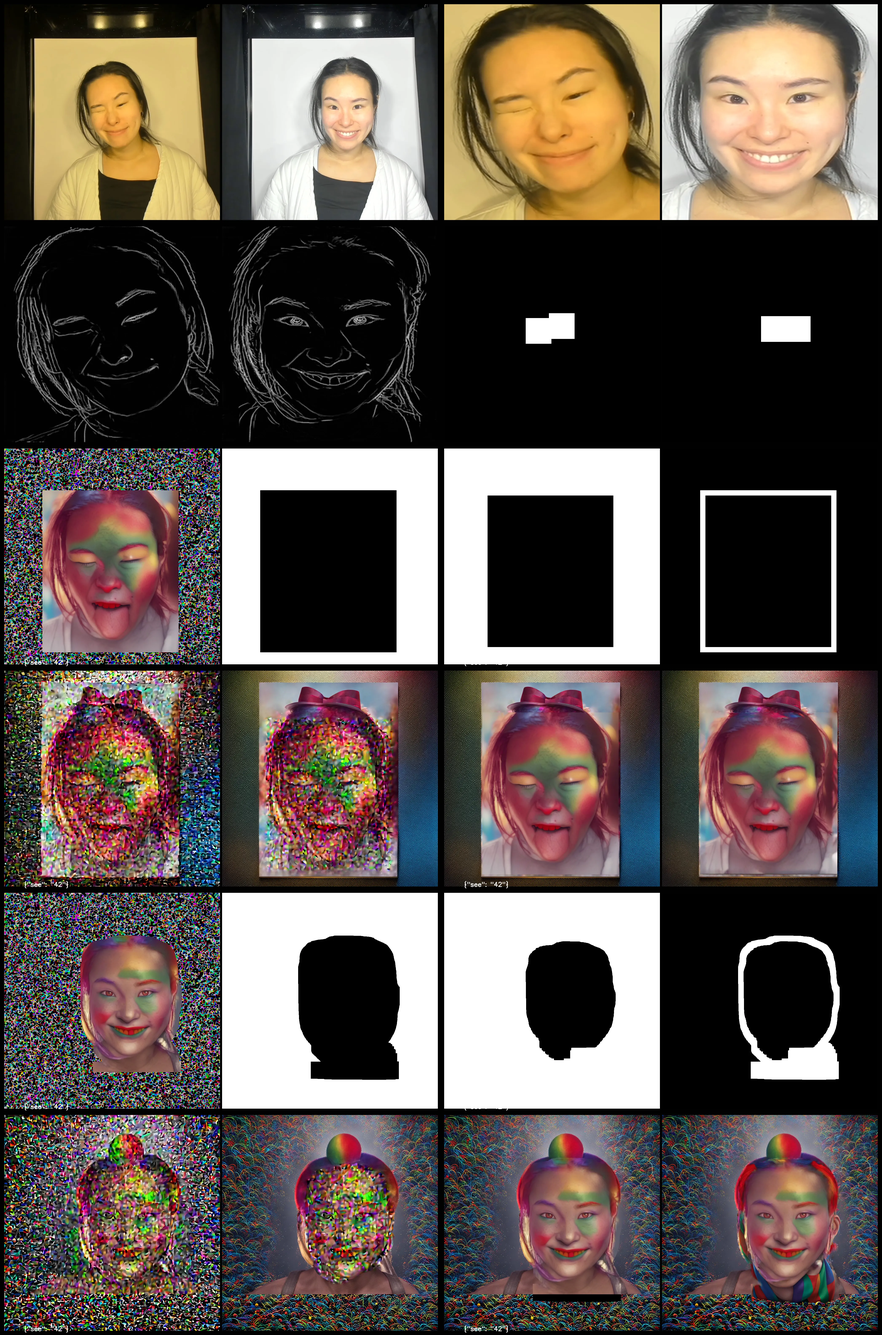
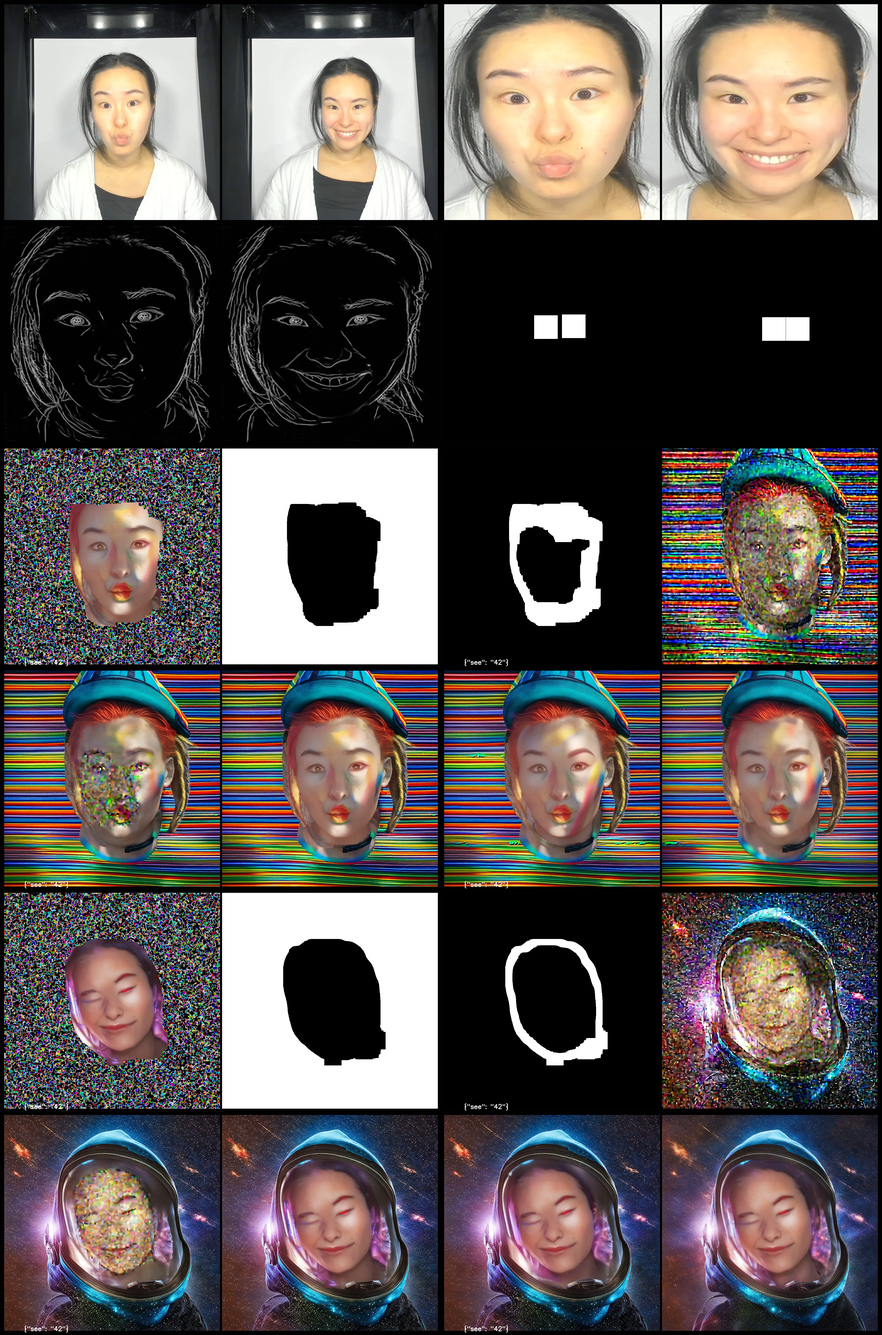
all the inpaintings.

diff --git a/one_shot/dreambooth/model.py b/one_shot/dreambooth/model.py
@@ -328,12 +328,11 @@ class Model:
                 image=img,
                 mask_image=mask,
                 generator=generator,
-                strength=0.99,
                 guidance_scale=self.params.guidance_scale,
                 num_inference_steps=self.params.steps,
                 output_type="latent",
                 denoising_end=self.params.high_noise_frac,
-                **og_prompts.kwargs_for_inpainter(idx),
+                **prompts.kwargs_for_inpainter(idx),
             ).images
             for img, mask, idx in zip(images, masks, range(len(images)))
         ]
@@ -375,7 +374,6 @@ class Model:
                 latents=latent,
                 mask_image=mask,
                 generator=generator,
-                strength=0.85,
                 denoising_start=self.params.high_noise_frac,
                 guidance_scale=self.params.guidance_scale,
                 num_inference_steps=self.params.steps,
@@ -395,15 +393,28 @@ class Model:
             final.append(to_pil_image(img))
 
         final_refined = [
-            self.models.bg_refiner(
+            self.models.inpainter(
                 image=final,
                 mask_image=to_pil_image(
                     (~np.asarray(masks[idx]) - ~np.asarray(og_masks[idx]))
                 ),
                 generator=generator,
-                strength=0.85,
+                strength=0.50,
                 guidance_scale=self.params.guidance_scale,
-                num_inference_steps=self.params.steps,
+                num_inference_steps=self.params.inpainting_steps,
+                **prompts.kwargs_for_inpainter(idx),
+            ).images[0]
+            for idx, final in enumerate(final)
+        ]
+
+        final_refined2 = [
+            self.models.bg_refiner(
+                image=final,
+                mask_image=og_masks[idx],
+                generator=generator,
+                strength=0.25,
+                guidance_scale=self.params.guidance_scale,
+                num_inference_steps=self.params.inpainting_steps,
                 **prompts.kwargs_for_refiner(idx),
             ).images[0]
             for idx, final in enumerate(final)
@@ -413,7 +424,7 @@ class Model:
             # frames[0],
             images[0],
             masks[0].convert("RGB"),
-            og_masks[0].convert("RGB"),
+            # og_masks[0].convert("RGB"),
             to_pil_image((~np.asarray(masks[0]) - ~np.asarray(og_masks[0]))).convert(
                 "RGB"
             ),
@@ -421,4 +432,5 @@ class Model:
             refined[0],
             final[0],
             final_refined[0],
+            final_refined2[0],
         ]

diff --git a/one_shot/params.py b/one_shot/params.py
@@ -62,15 +62,15 @@ class Params(BaseModel):
     model: Model = Model()
     batch_size: int = 4
 
-    negative_prompt = "box+, frame, boxy, rectangle+, extra fingers, ugly+, blurry+, fuzzy+, monotone, dreary, extra digit, fewer digits, eyes closed, extra eyes, bad smile, cropped, worst quality, low quality, glitch, deformed, mutated, disfigured, text"
-    refine_negative_prompt = "face++, eyes++, (double face), (extra eyes), (multiple faces)+, extra digits, extra fingers, extra limbs, deformed"
-    prompt_template = "4k photo, realistic, cinematic effect, hyperrealistic+, sharp, (highly detailed)+, (airbrushed)0.2, (beautiful)0.2"
+    negative_prompt = "box+, (picture frame)++, boxy, rectangle+, extra fingers, ugly+, blurry+, fuzzy+, monotone, dreary, extra digit, fewer digits, eyes closed, extra eyes, bad smile, cropped, worst quality, low quality, glitch, deformed, mutated, disfigured, text"
+    refine_negative_prompt = "face+++, eyes+++, (double face), (extra eyes), (multiple faces)+, extra digits, extra fingers, extra limbs, deformed"
+    prompt_template = "4k photo, realistic, cinematic effect, hyperrealistic+, sharp, (highly detailed)+, nice smile, (airbrushed)0.2, (beautiful)0.2"
     prompt_prefix = "{prompt}, {ethnicity} {gender}"
     refine_prompt_prefix = "{prompt}"
     inpaint_prompt_template = "{color} eyes, perfecteyes++, (detailed pupils)+, subtle eyes, natural eyes, realistic eyes, ({ethnicity} {gender})0.1, ({prompt})0.8"
     prompts = [
         "a clown on a sunny day, suspenders with thin rainbow stripes",
-        "mysterious {ethnicity}0.3, cyberpunk, in the universe, cosmos and nebula reflected in clothing",
+        "mysterious, floating in the universe, cosmos and nebula reflected in clothing, cyberpunk vibes",
         # "90s style, leather jacket, smug, vintage, antique car, smoking cigar",
         # "classy {gender}, wearing a pinstripe suit, pop art style, painting by andy warhol",
         # "zombie, (decaying skin and clothing)-, (rotting skin)-, inside an abandoned building",
@@ -81,8 +81,8 @@ class Params(BaseModel):
     ] * 2
 
     seed: Optional[int] = None
-    steps: int = 25
-    inpainting_steps = 20
+    steps: int = 20
+    inpainting_steps = 15
     images: int = 2
 
     detect_resolution: int = 384
@@ -92,5 +92,5 @@ class Params(BaseModel):
     conditioning_strength: tuple[float, float] = (1.50, 1.52)
     conditioning_factor: float = 1.0
     lora_scale = 0.4
-    high_noise_frac: float = 0.90
+    high_noise_frac: float = 0.85
     mask_padding: float = 0.055

diff --git a/one_shot/face.py b/one_shot/face.py
@@ -211,8 +211,8 @@ class FaceHelper:
             for j, face in enumerate(faces):
                 inputs = self.models.sam.processor(
                     img,
-                    input_points=[[] if face.is_trivial else [face.eyes.flat]],
-                    input_boxes=[[] if face.is_trivial else [face.box.flat]],
+                    input_points=None if face.is_trivial else [[face.eyes.flat]],
+                    input_boxes=None if face.is_trivial else [[face.box.flat]],
                     return_tensors="pt",
                 ).to(self.rank)
                 outputs = self.models.sam.model(**inputs)
@@ -234,7 +234,7 @@ class FaceHelper:
                         )
                     ),
                 )
-                if not masks:
+                if len(masks) == 0:
                     continue
                 mask_images = []
                 for mask in (masks[0], reduce(np.logical_or, masks)):
